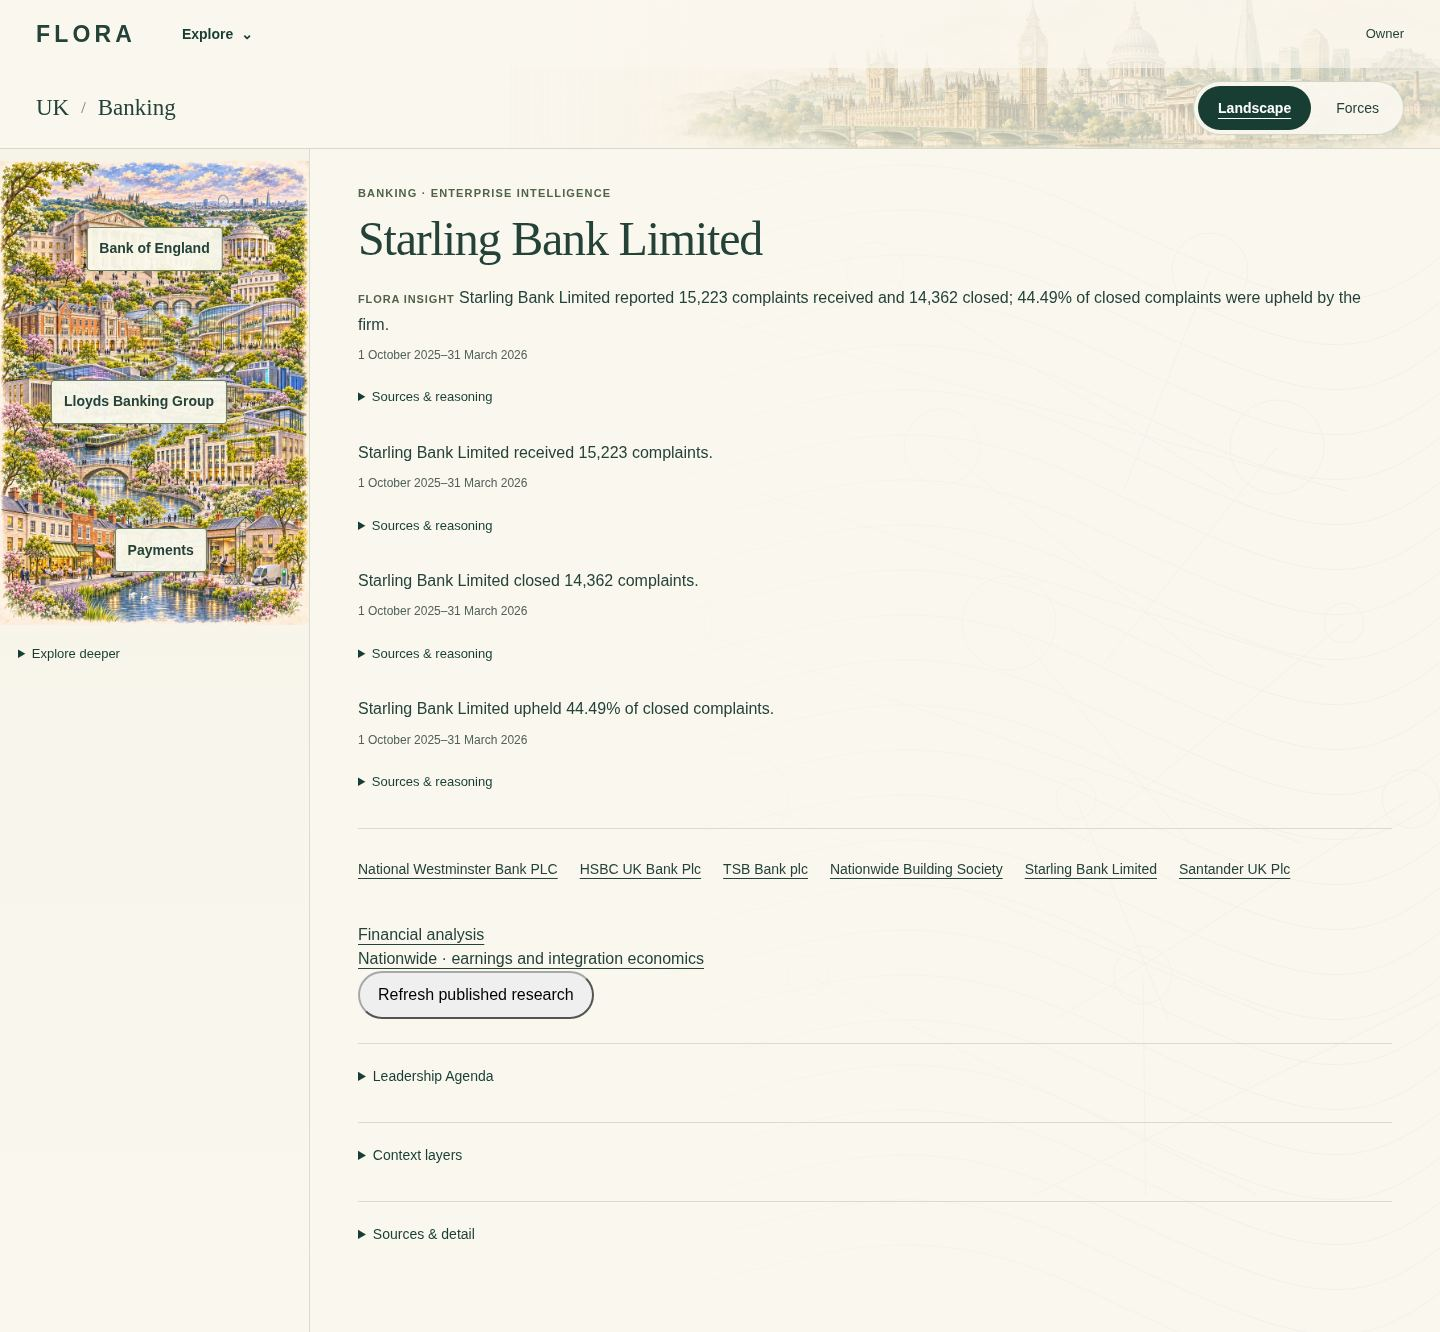
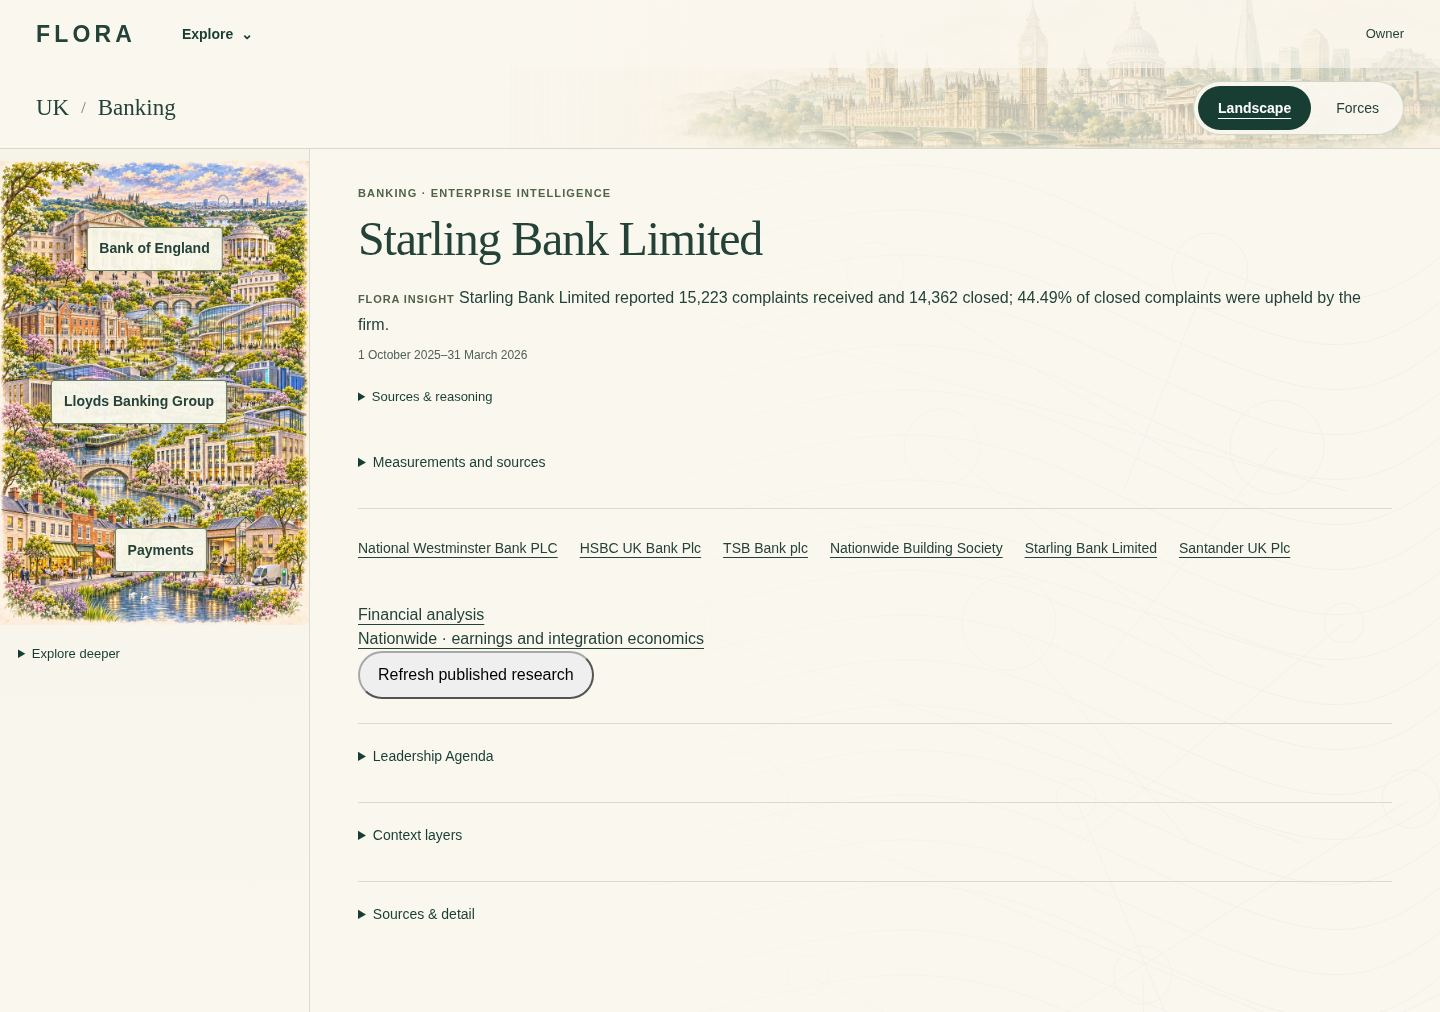
Simplify selected bank insight and reconcile expanded browser coverage

diff --git a/cios/applications/flora/visual_panels.py b/cios/applications/flora/visual_panels.py
@@ -216,7 +216,7 @@ def _banking(ctx,data,issues):
     selected = agenda.bank_service_issue(ctx.selected, data) if independent or any(r.key=='service-landscape' for r in issues) else None
     if selected:
         return ('<p class="eyebrow">Banking · enterprise intelligence</p><h1>'+e(agenda.BANK_SERVICE[ctx.selected][0])+'</h1>'
-                +p.render(selected.conclusion)+''.join(p.render(f) for f in selected.facts)
+                +'<section class="editorial-issue" data-intelligence="service-landscape">'+p.render(selected.conclusion)+'<details><summary>Measurements and sources</summary>'+''.join(p.render(f) for f in selected.facts)+'</details></section>'
                 +agenda.bank_service_navigation(ctx,v.url,issues,data))
     facts=_facts(data,['UK-RATE-NOV26','UK-PRA-REPORT27','UK-FCA-REPORT27','UK-VALUE'])
     rate=next((f for f in facts if f.unit=='percent; policy rate at decision'),None)

diff --git a/tests/test_flora_rud1_648.py b/tests/test_flora_rud1_648.py
@@ -170,3 +170,10 @@ def test_source_missing_identity_does_not_block_unrelated_research(retained):
     mutate(retained,lambda d:d['sources'].append({'withdrawn':True}))
     assert agenda.routine_service_issue('starling')
     assert f._current_inputs(KEY).measurements
+
+
+
+def test_selected_service_default_uses_progressive_detail_instead_of_repeating_figures():
+    html=visual.render('/industries/banking',{'selected':['starling']})
+    assert '<details><summary>Measurements and sources</summary>' in html
+    assert '15,223' in html and '14,362' in html and '44.49%' in html

diff --git a/docs/flora-runtime/rud1-648/Independent-Review.md b/docs/flora-runtime/rud1-648/Independent-Review.md
@@ -16,3 +16,5 @@ Two separately authorised existing review agents examined original sources, arch
 Financial reviewer independently reproduced both GBP-million reconciliations and ran61 focused tests at the reviewed worktree. Architecture reviewer independently reproduced deny cases and checked original FCA figures/periods. Both regard Nationwide's minimal factual method as defensible within the bounded source class; neither approves unrelated issuer use. Final exact-commit full CI/browser artifacts are separately required.
 
 Commercial conclusion: users now see real financial analysis rather than another candidate-file pack, and can inspect each bank's exact service context. One of five new earnings views is a genuine limit. Complaint totals are not a service-quality ranking, financial-redress estimate or proxy for customer demand. The work must not be described as five-bank financial completion.
+
+Final presentation critique: the selected service default repeated figures in a summary and three paragraphs. Detailed measurements now sit behind native **Measurements and sources**, keeping one concise default account summary. A browser assertion checks that the received count appears once before inspection. This preserves all facts and source access.
